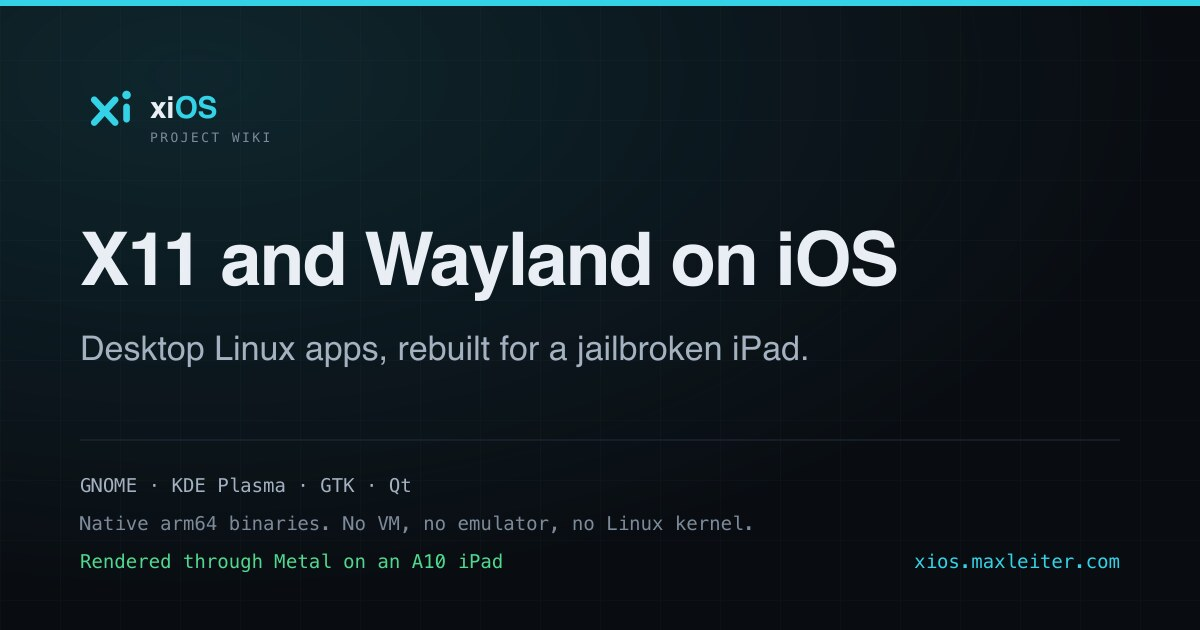
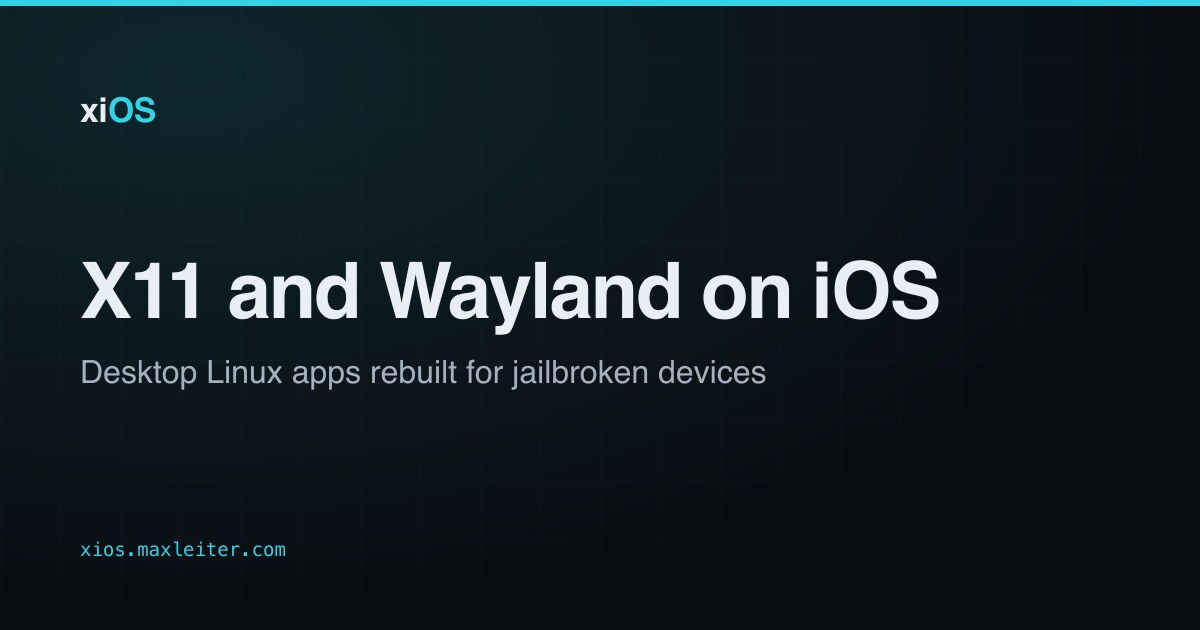
site: cut the slop from the meta description and simplify the OG card
Drop "No Linux kernel, no VM, no emulator." from the homepage description.
The page itself already makes the point in its own words.

The OG card was doing too much. Now it is just the wordmark, the headline,
one caption line and the URL: no logo lockup, no "project wiki" kicker, no
toolkit list, no divider rule.

diff --git a/x11/site/content/site.ts b/x11/site/content/site.ts
@@ -14,7 +14,7 @@ export const NAV: NavItem[] = [
     label: "Overview",
     idx: "00",
     description:
-      "GNOME, KDE, GTK and Qt apps rebuilt as native arm64 iOS binaries on a jailbroken iPad, drawn to the screen through Metal. No Linux kernel, no VM, no emulator.",
+      "GNOME, KDE, GTK and Qt apps rebuilt as native arm64 iOS binaries on a jailbroken iPad, drawn to the screen through Metal.",
   },
   {
     href: "/architecture",
@@ -91,7 +91,7 @@ export const OG_IMAGE = {
   url: "/opengraph-image.jpg",
   width: 1200,
   height: 630,
-  alt: "The xiOS project wiki: X11 and Wayland on iOS. Desktop Linux apps, rebuilt for a jailbroken iPad.",
+  alt: "xiOS: X11 and Wayland on iOS. Desktop Linux apps rebuilt for jailbroken devices.",
 };
 
 export function siblings(href: string) {
